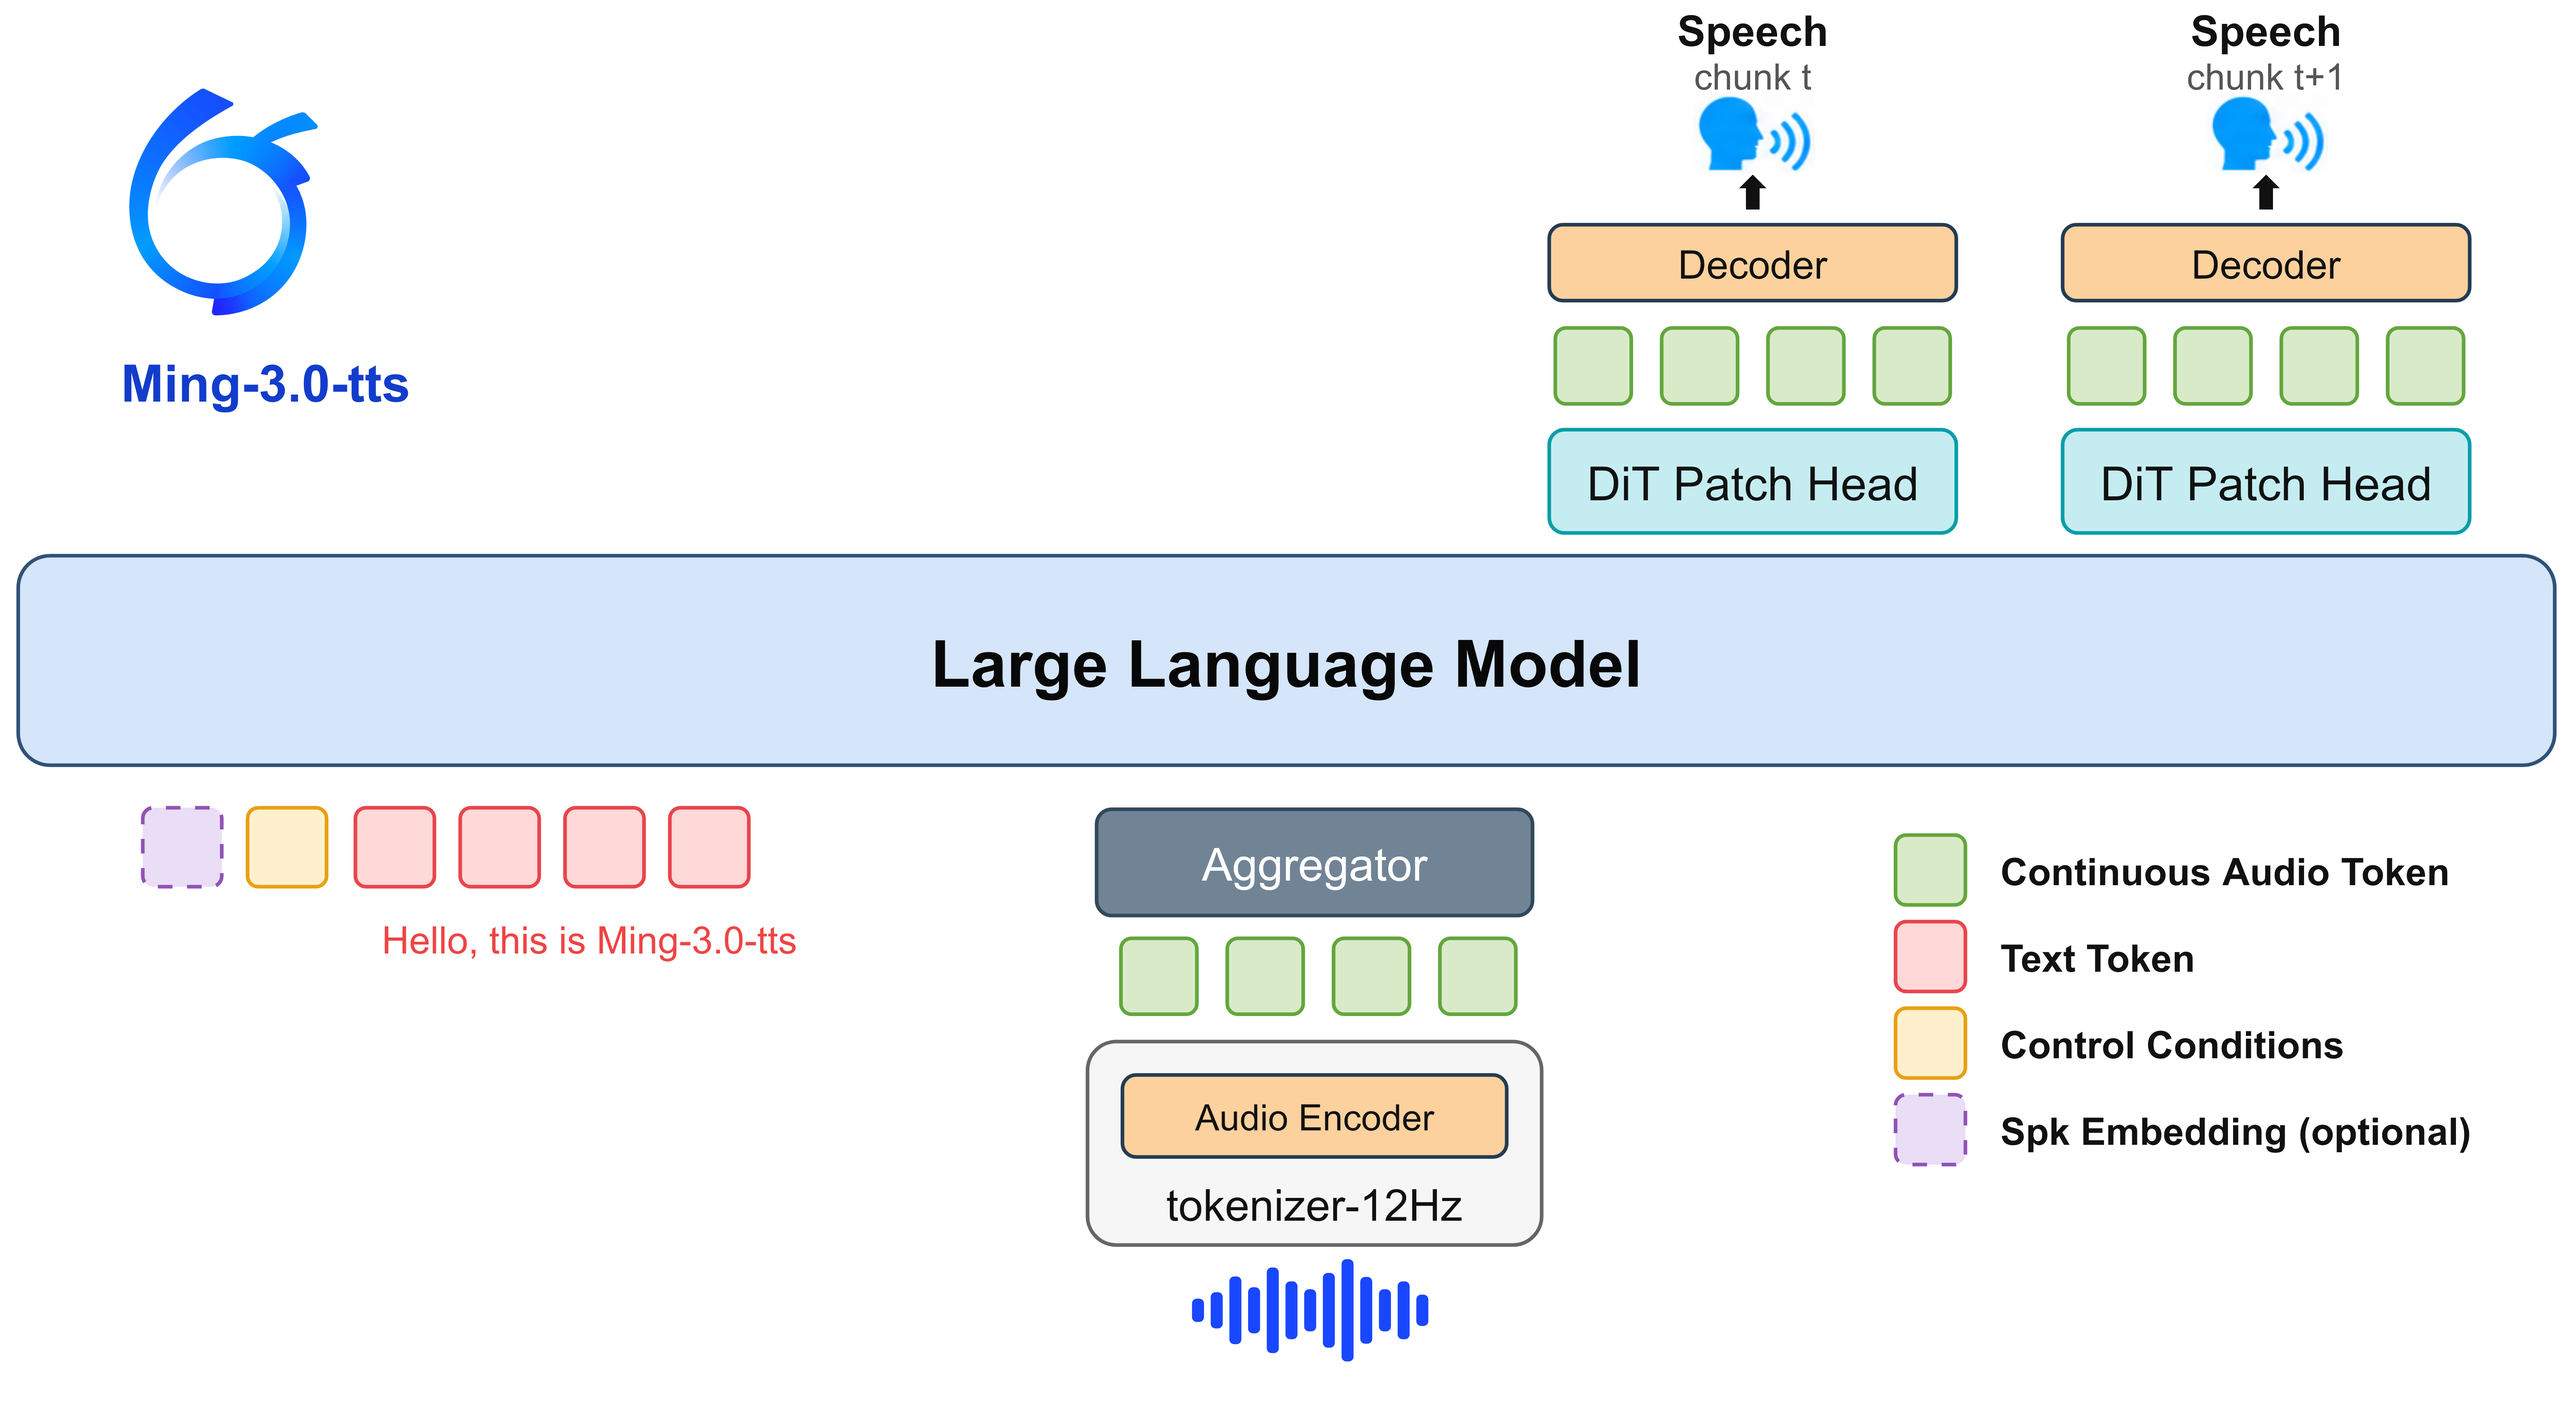
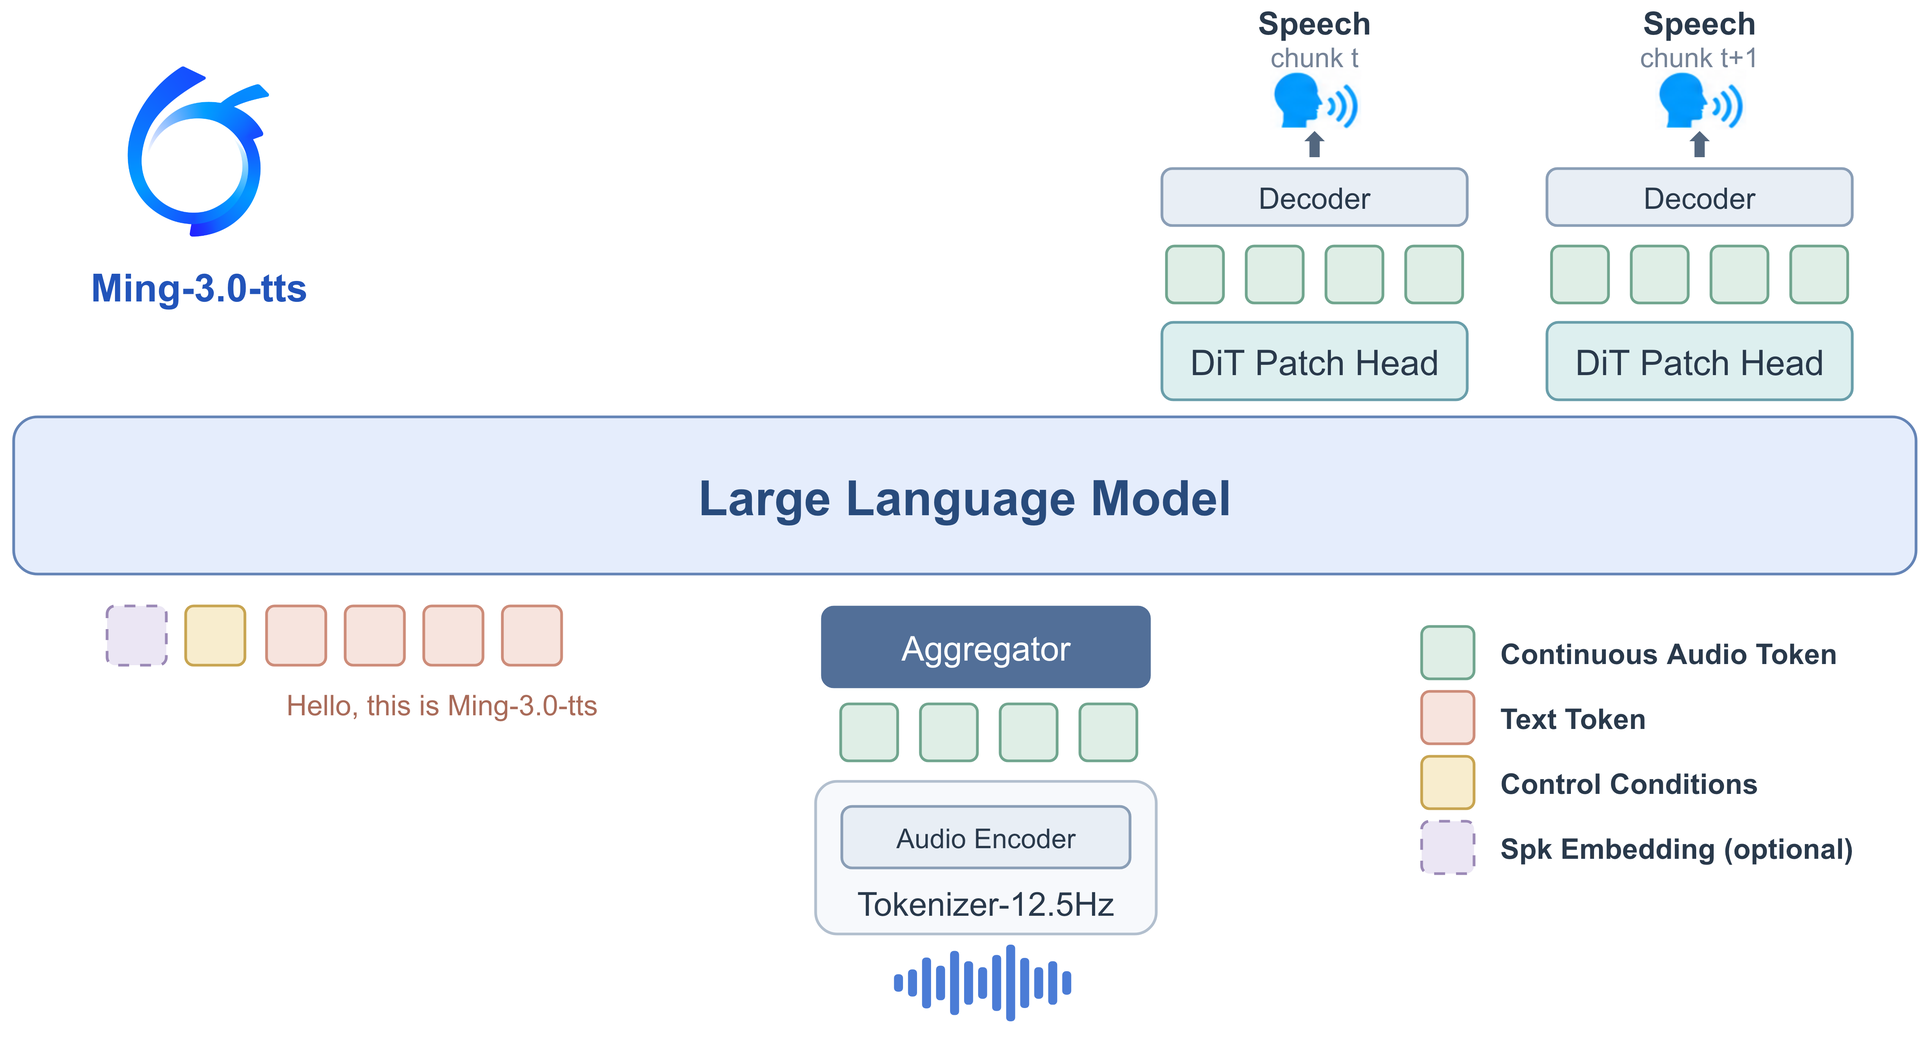
docs: refresh architecture diagram and clarify multilingual evaluation

diff --git a/README.md b/README.md
@@ -464,6 +464,8 @@ Tiny achieves **SOTA speaker similarity** in Chinese and English. 0.5b has lower
   </tbody>
 </table>
 
+<sub>Each open-source model was evaluated using its recommended inference settings under a unified ASR-based WER/CER evaluation protocol.</sub>
+
 Tiny achieves **SOTA WER in German and Spanish**, ranks **2nd** in French WER and ties for **2nd** in Japanese CER. 0.5b is more accurate in Korean; speaker similarity remains a gap for both models.
 
 ### Paralinguistic control (NVBench)
